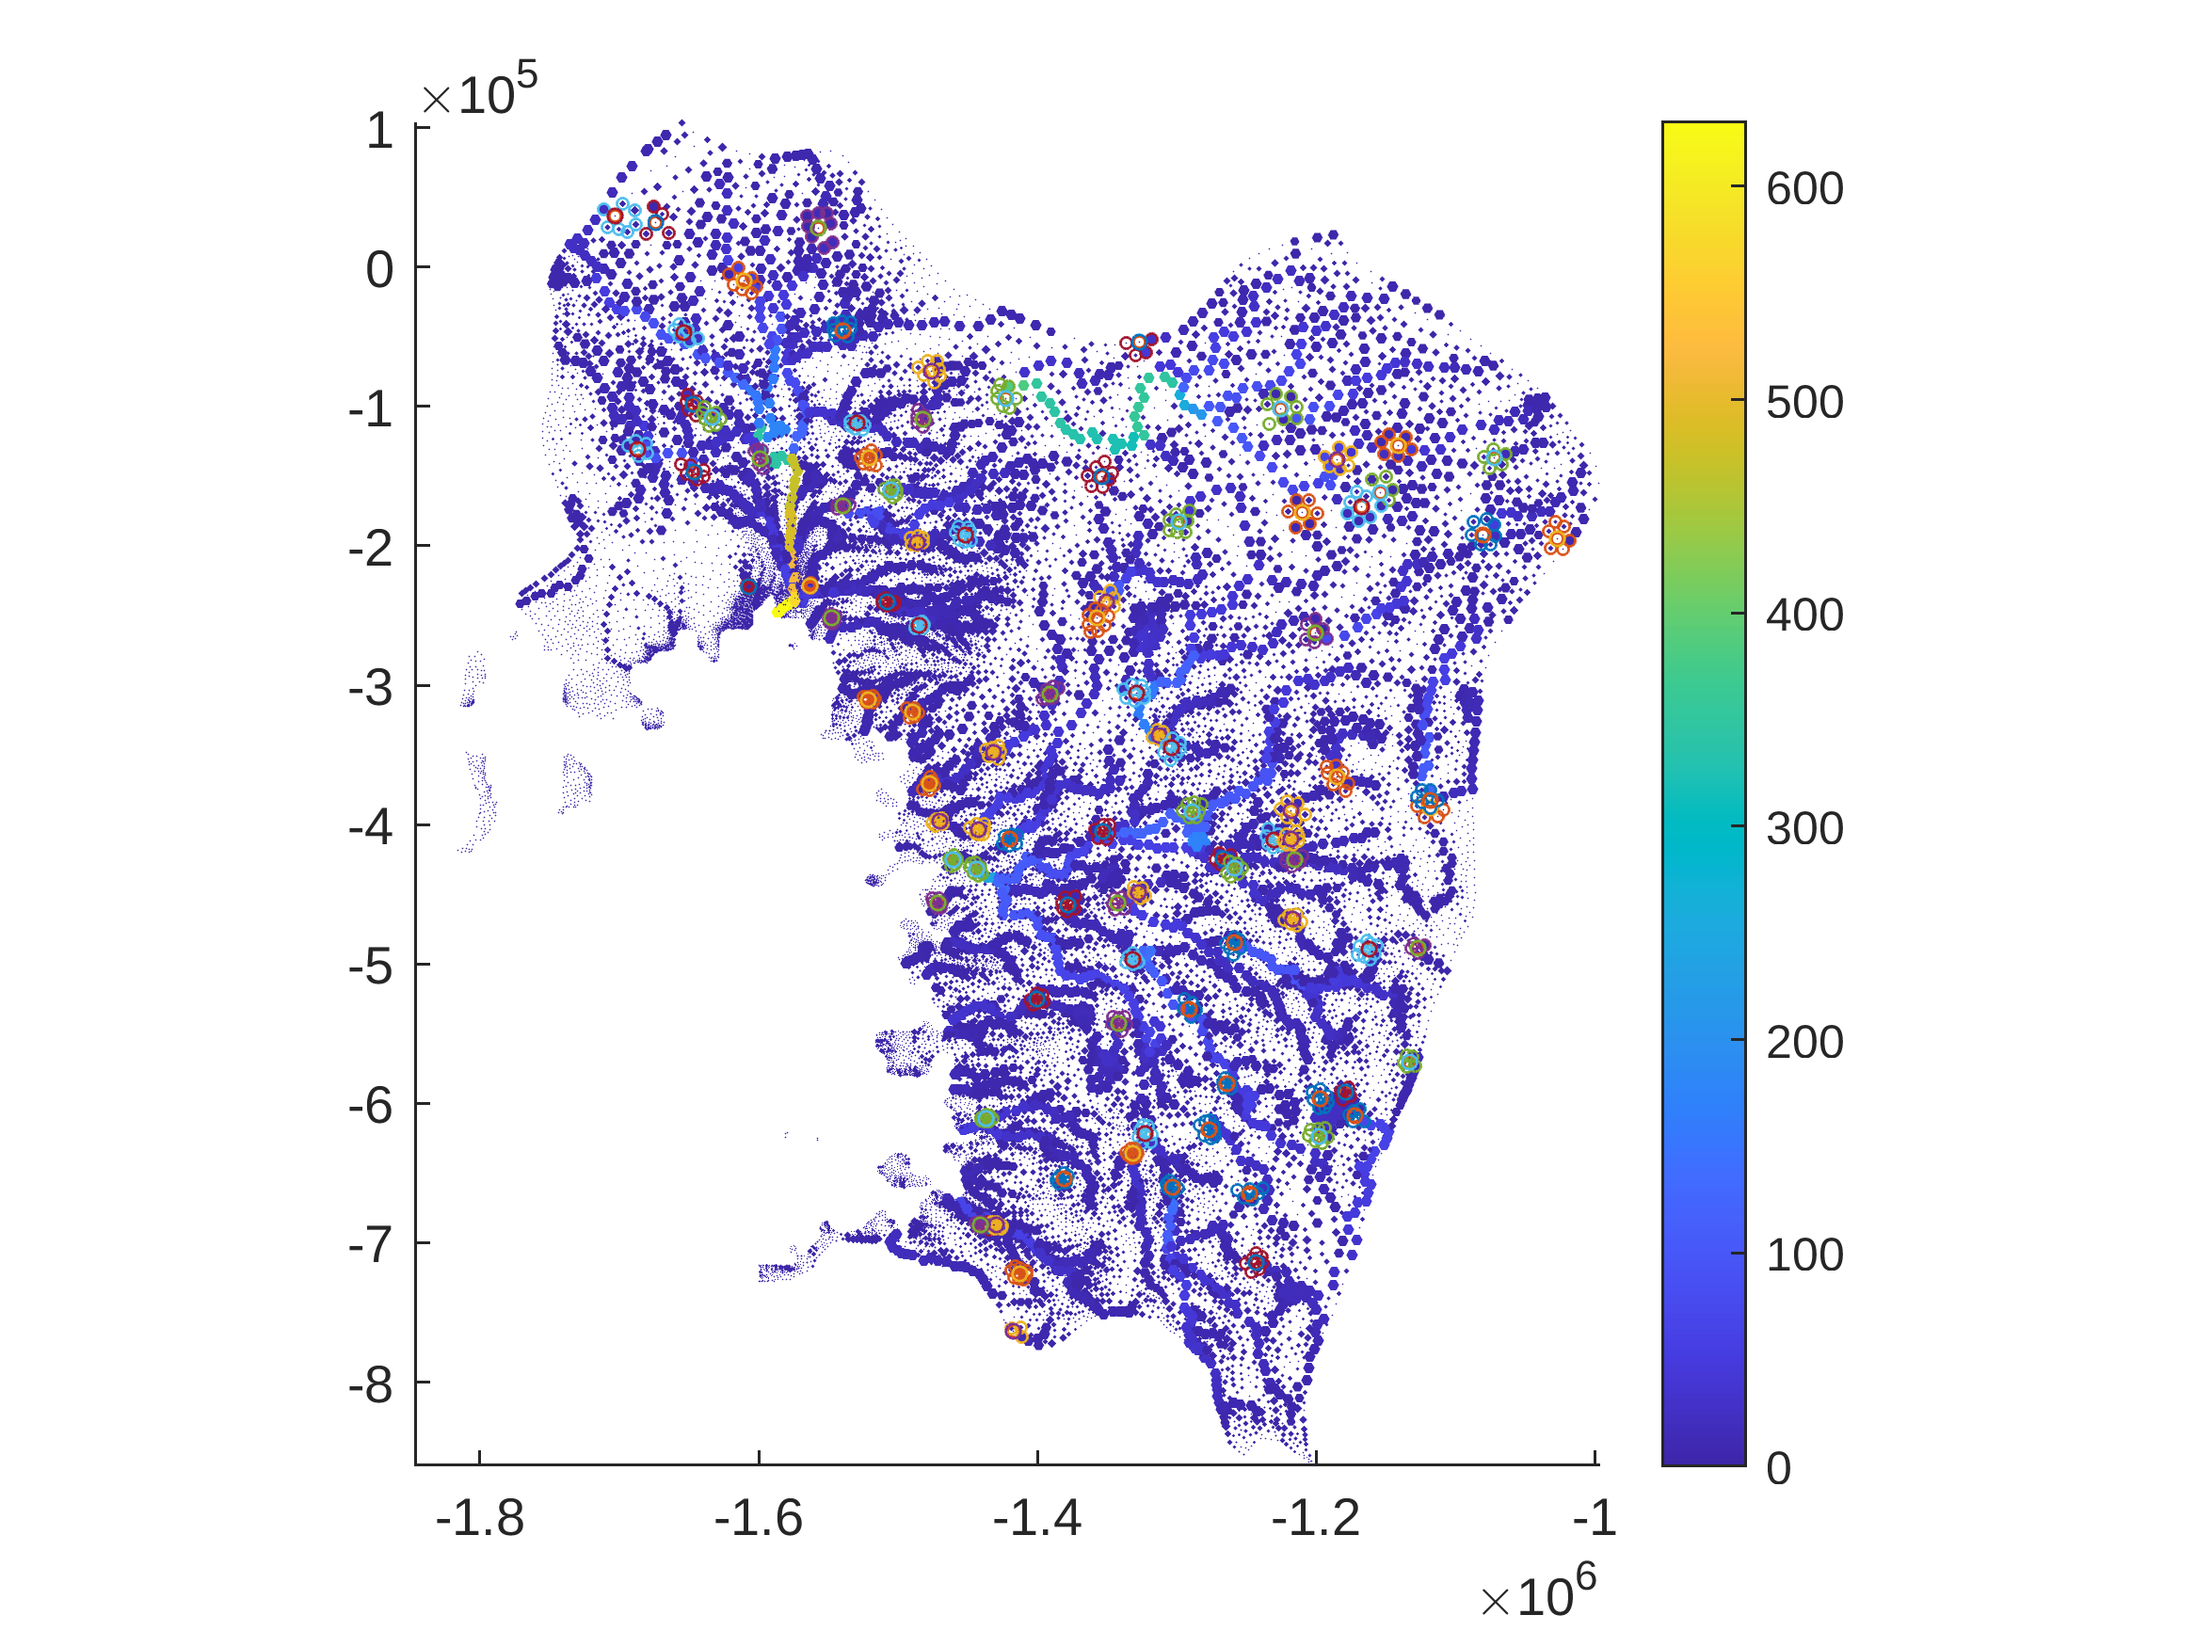
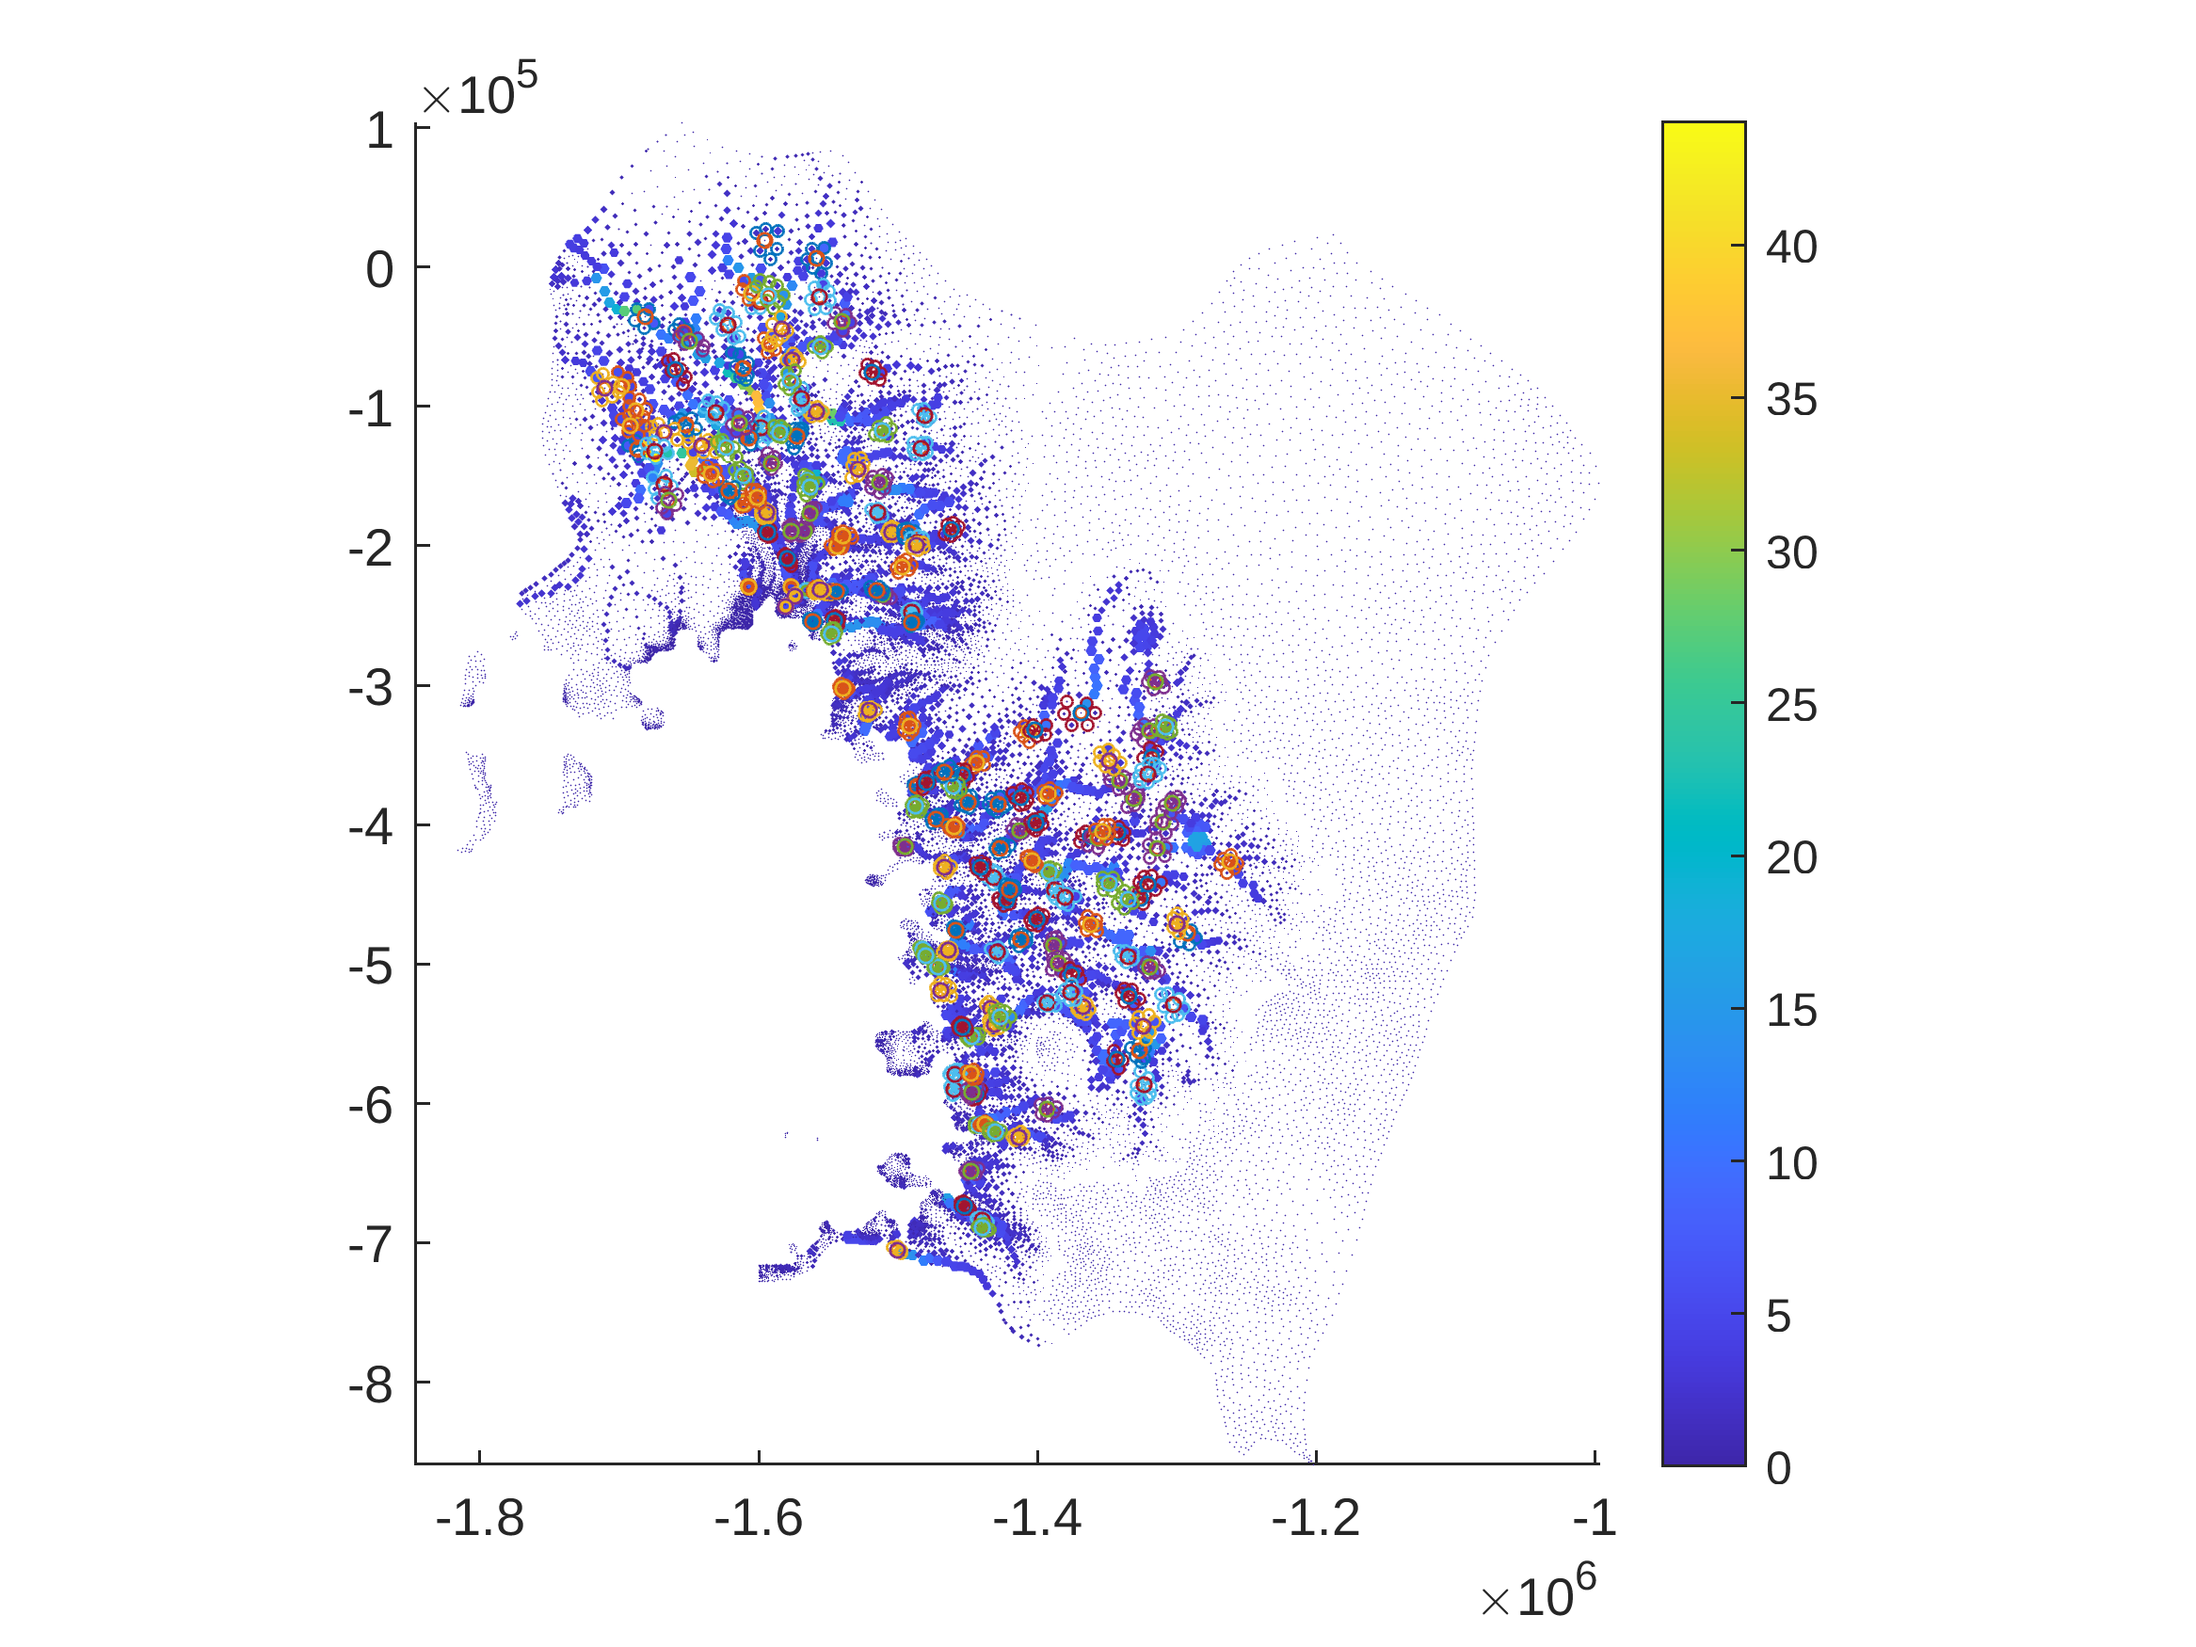
Run with elevation-dependent melt

diff --git a/m/run_flow_accumulation.m b/m/run_flow_accumulation.m
@@ -1,31 +1,39 @@
 addpath(genpath([getenv('ISSM_DIR'), '/bin']))
 addpath(genpath([getenv('ISSM_DIR'), '/lib']))
 
+% Load ISSM model and set surface and melt fields
 loadmodel('ASE_2300_ks_1e3_GlaDS_Steady_State_ks.mat')
 phi = md.geometry.surface;
-melt = ones(md.mesh.numberofvertices,1)/365/86400;
 
-% Compute element areas
-meshArea = GetAreas(md.mesh.elements, md.mesh.x, md.mesh.y);
-connectEdge = reconstruct_edges(md);
-connectEdge = connectEdge(:, 1:2);
+% Simple elevation-dependent melt rate
+% 2 m/year at sea level
+% 0 m/year above 1500 m
+ela = 1500;
+melt = 2/365/86400*(ela-phi)/ela;
+melt(melt<0) = 0;
 
+% Allow moulins everywhere
 condition = phi>0;
 discharge_threshold = 5;
 step = 1;
-maxiter = 100;
+maxiter = 250;
 [moulins, discharge, trace] = place_moulins(md, phi, melt, condition, ...
     discharge_threshold, 'step', step, 'maxiter', maxiter);
 
+% Recompute flow accumulation for final moulins
+% compute_flow_accumulation needs element areas and
+% edge-node connections
+meshArea = GetAreas(md.mesh.elements, md.mesh.x, md.mesh.y);
+connectEdge = reconstruct_edges(md);
+connectEdge = connectEdge(:, 1:2);
 [flowAcc, sinkDischarge, sinkCatchments] = compute_flow_accumulation(md, ...
     meshArea, connectEdge, phi, melt, 'step', step, 'sinks', moulins);
 
-
+% Scatter plot flow accumulation
+% Set marker size based on flow accumulation field
 s = flowAcc;
 s(s>5) = 5;
 s(s<=0) = 0.1;
-
-
 flowAcc(md.mask.ocean_levelset<1) = nan;
 
 figure;
@@ -35,6 +43,8 @@ scatter(md.mesh.x(moulins), md.mesh.y(moulins), 5, 'color', 'red')
 axis image
 colorbar;
 
+% Plot each moulin with their adjacent nodes
+% to debug node-node connections
 for i=1:length(moulins)
     m1 = moulins(i);
     load adjacent_nodes;
@@ -45,8 +55,7 @@ for i=1:length(moulins)
 end
 print('matlab_flowacc.png', '-dpng', '-r400')
 
-
-% Plot the trace
+% Trace figure for moulin discharge
 trace_moulins = trace{1};
 trace_discharge = trace{2};
 discharge_arr = zeros(length(moulins), maxiter).*nan
